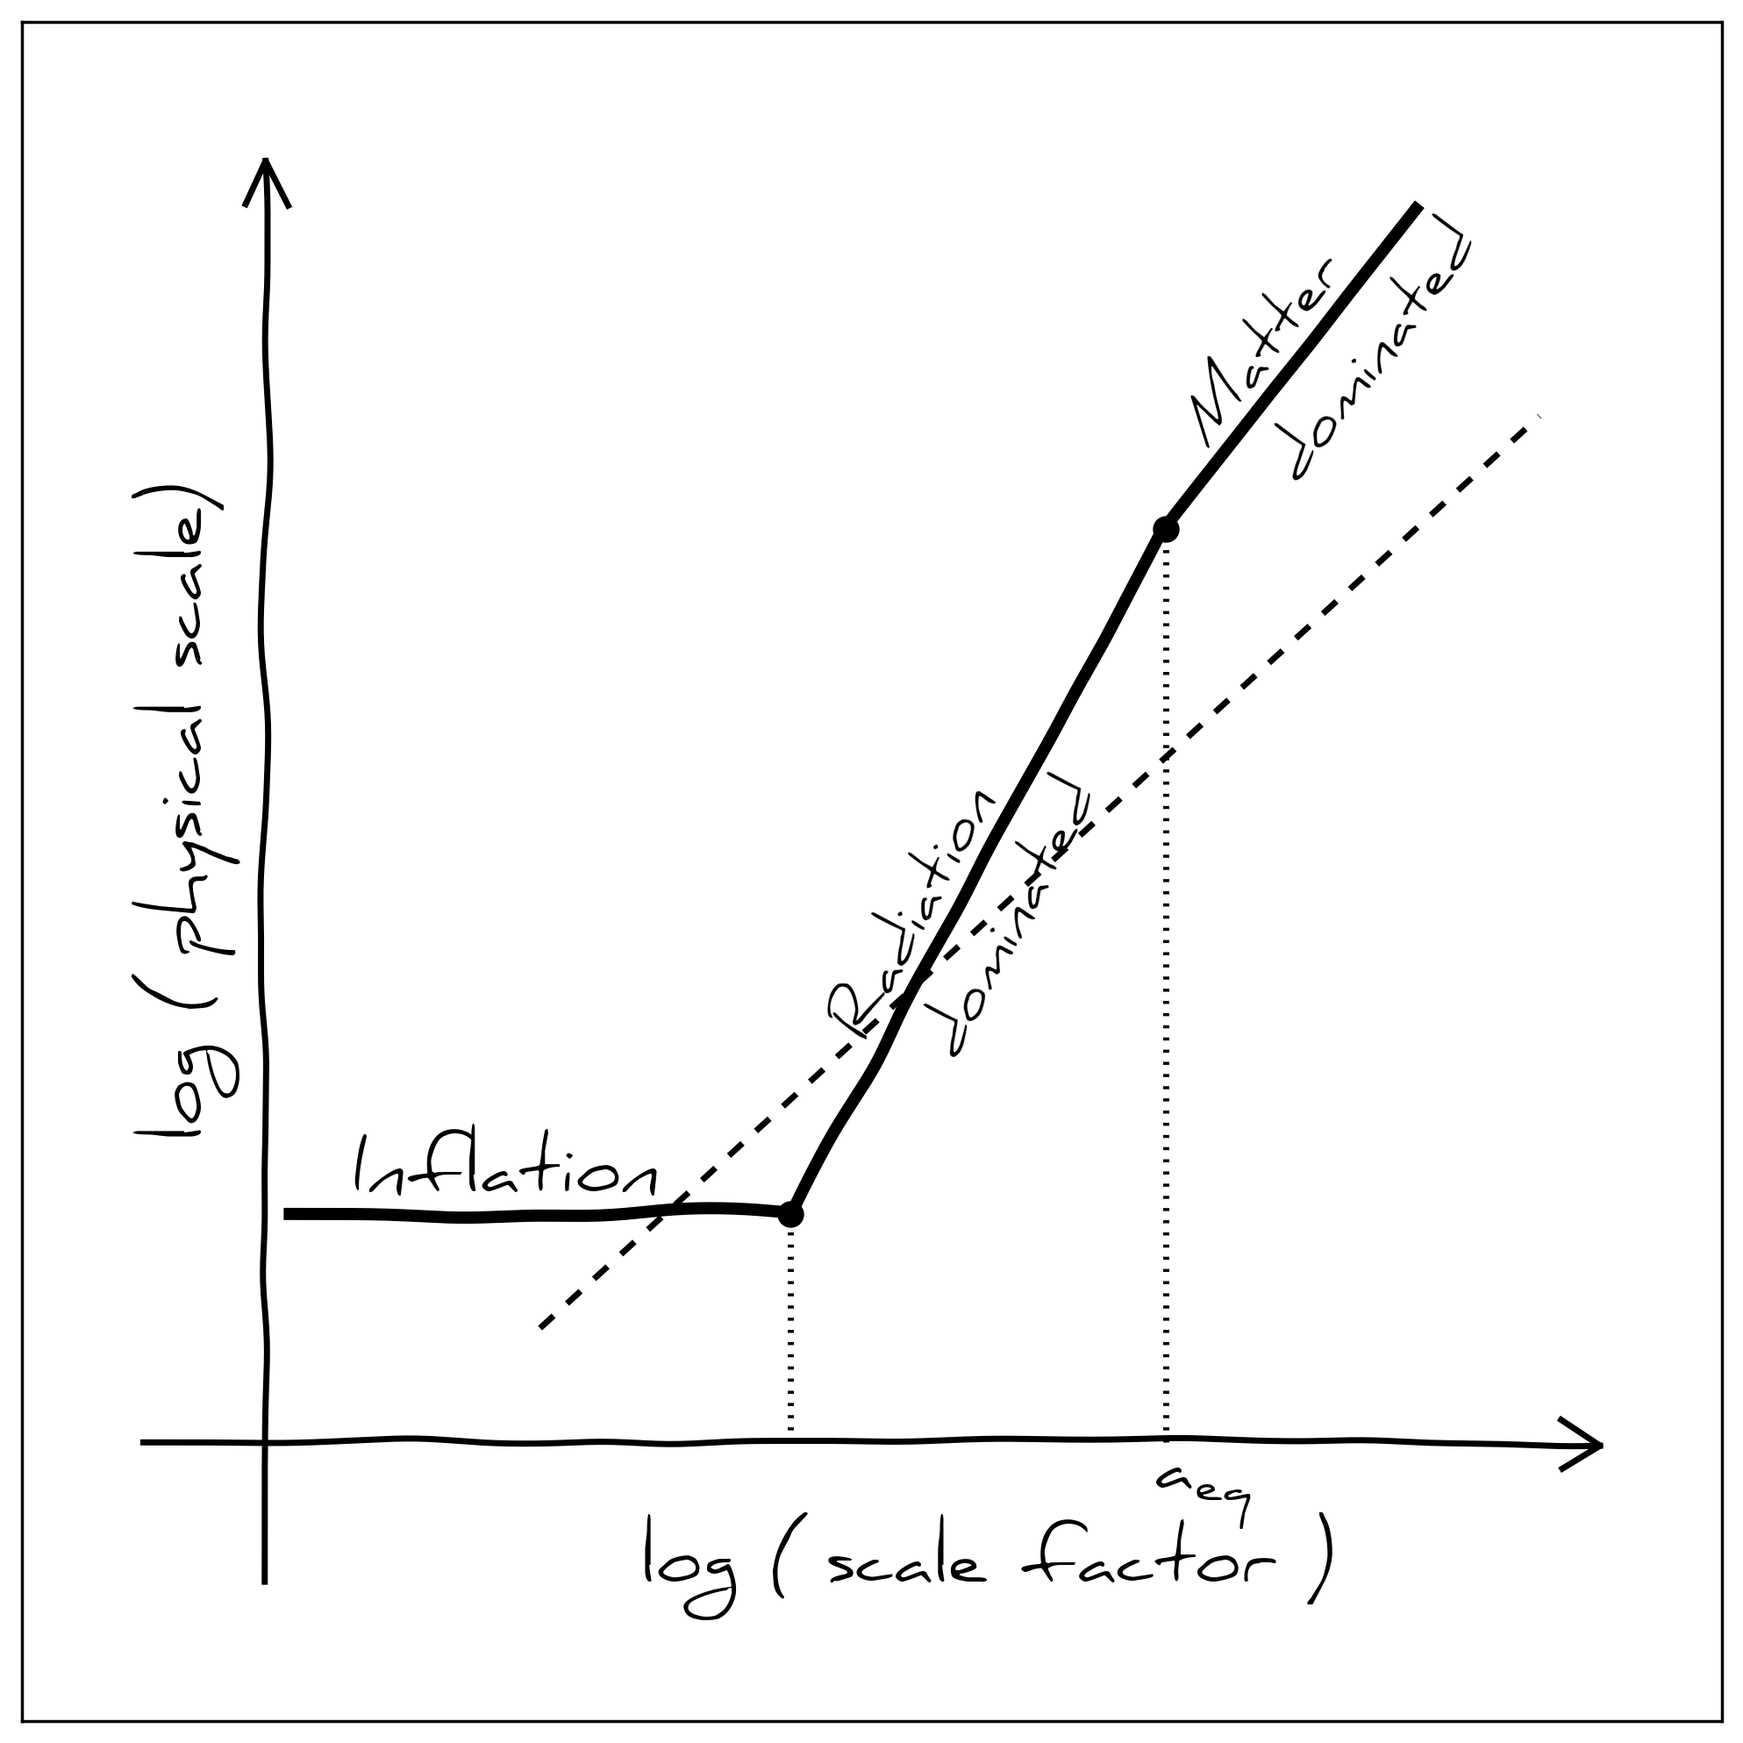
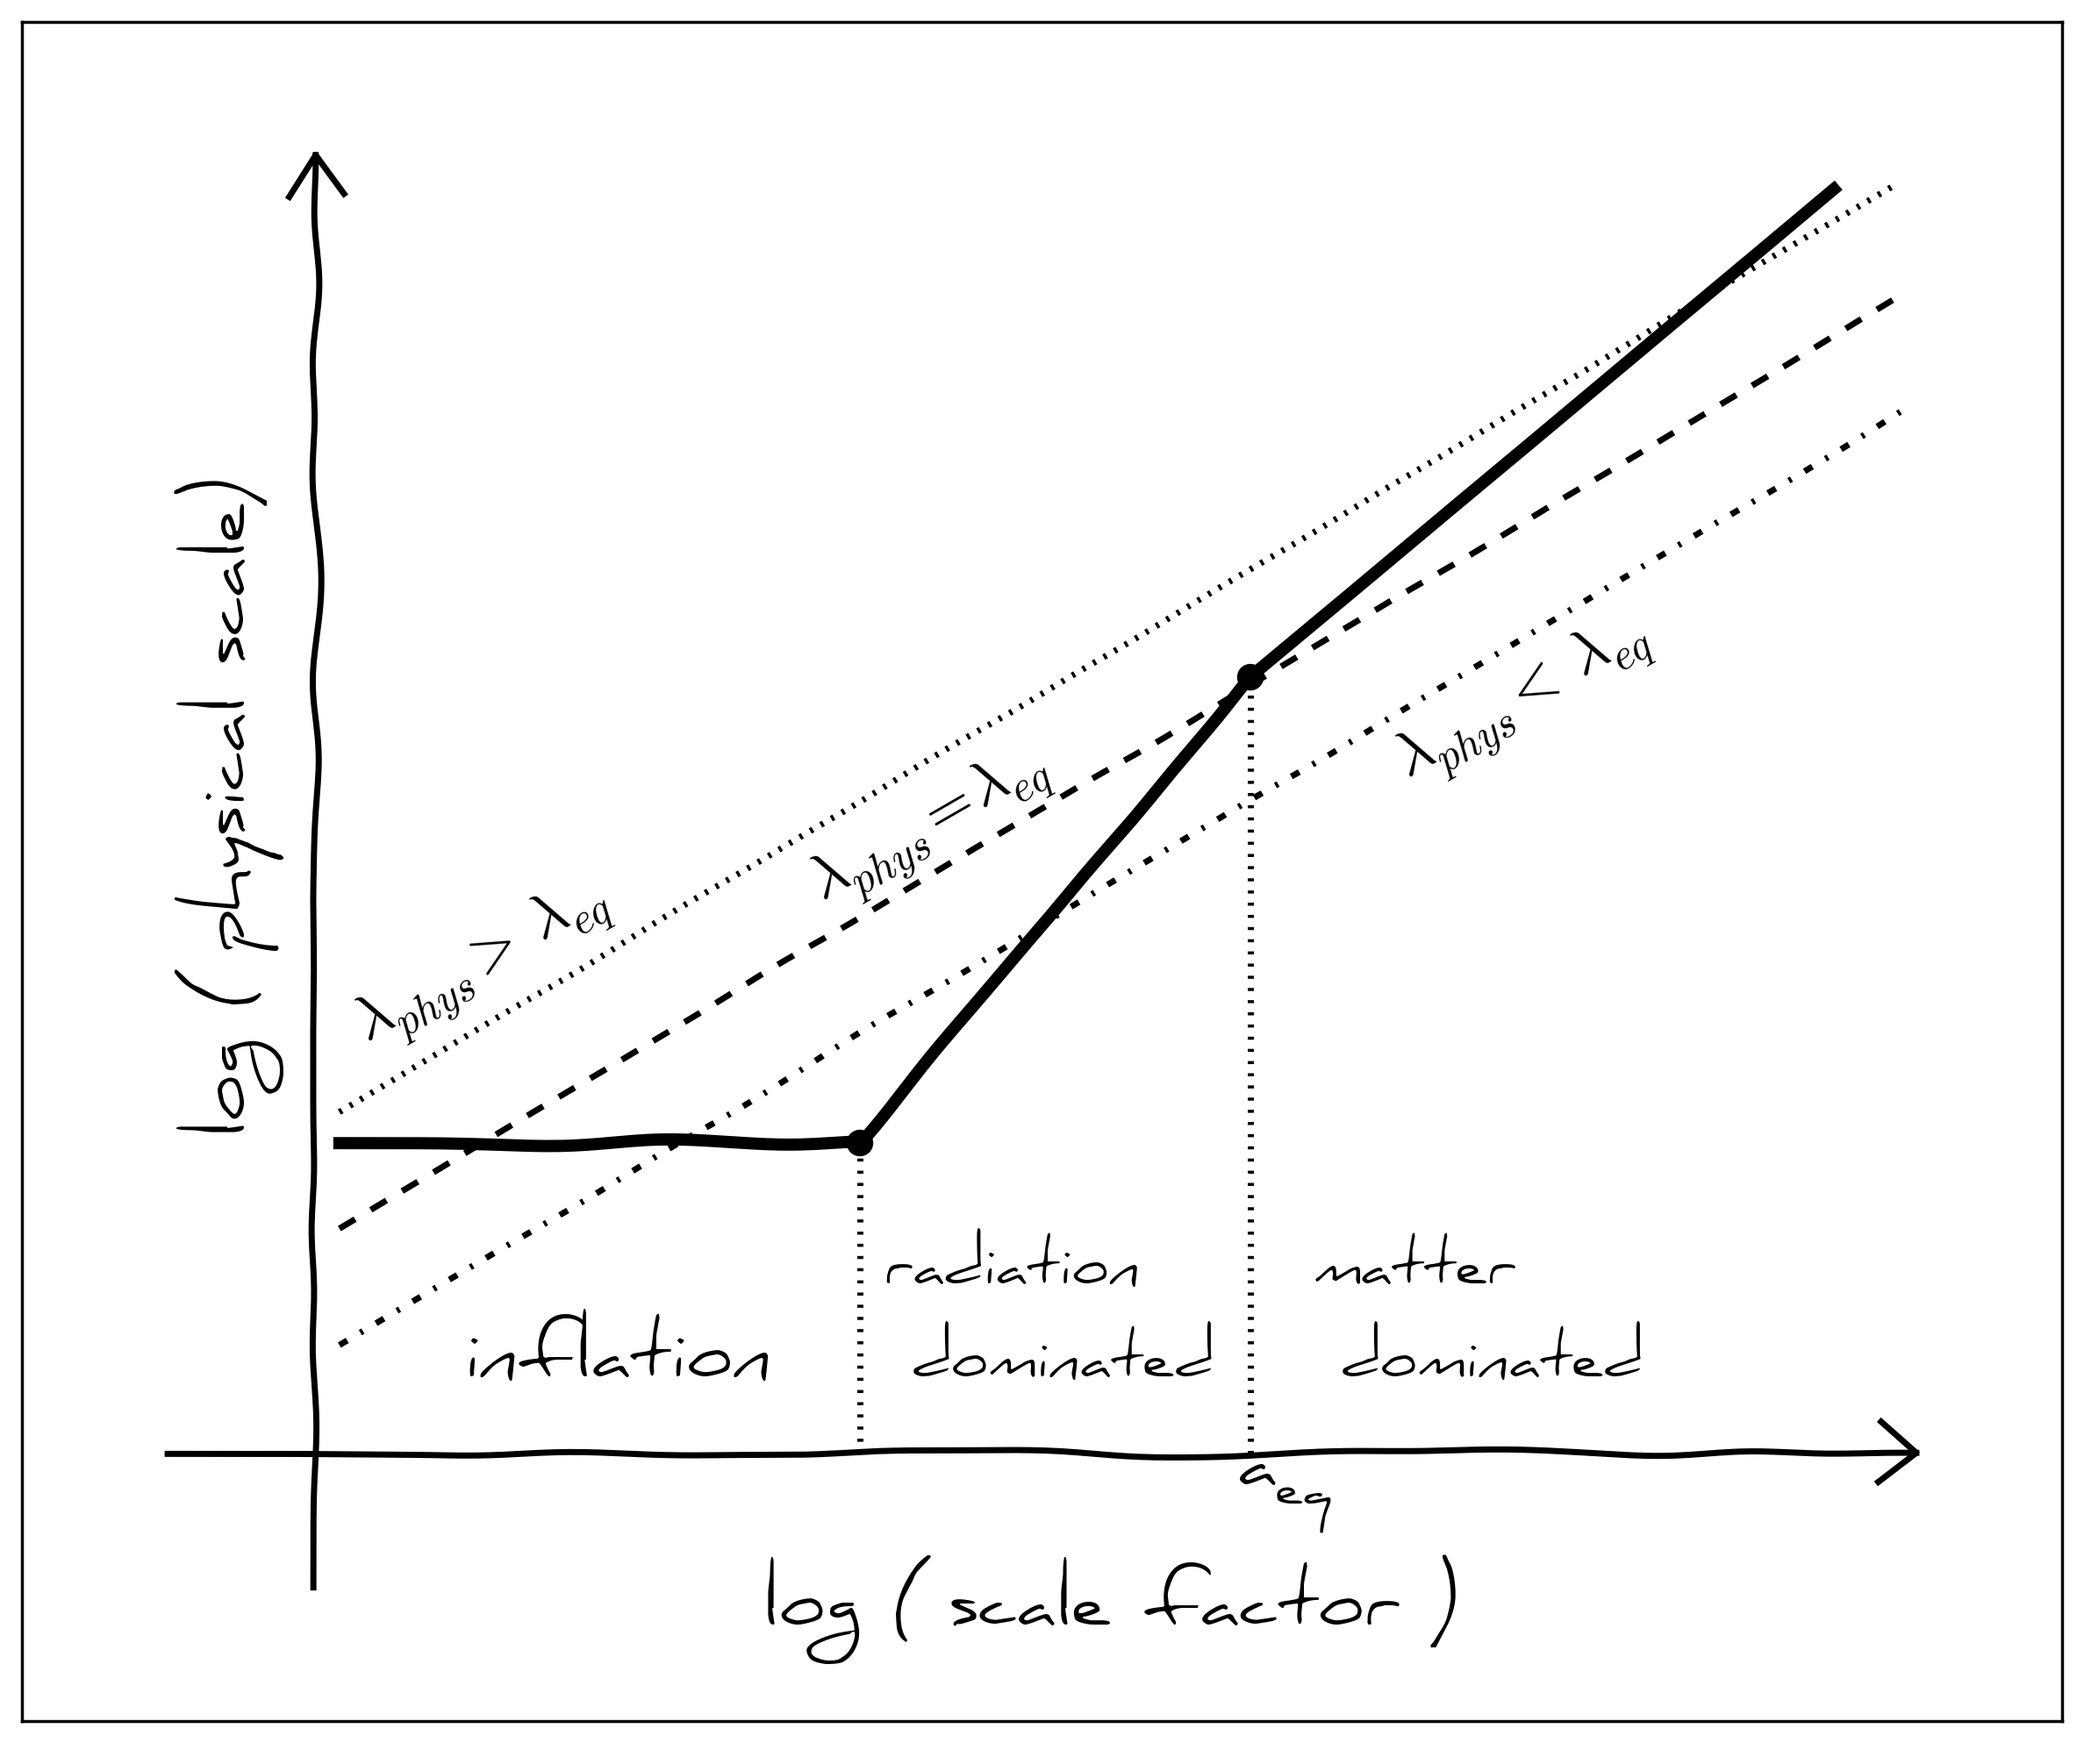
lifo figure face lift

diff --git a/intro.tex b/intro.tex
@@ -160,14 +160,23 @@ evolution of the density fluctuation is quantified through the
 \begin{figure*}
 \begin{center}
 \includegraphics[width=\textwidth]{figs/lifo.png}
-\caption{\todo{Schematic diagram that illustrates the evolution of the Hubble radius
-(Above) The evolution of the Hubble radius (solid line) during inflation (flat), radiation
-domination, and matter domination (note inflection). Dashed, dotted, and dot-dashed
-lines show the physical length of three constant comoving scales. The scale corresponding
-to the current Hubble radius cH−1
-0 first “left the horizon” about 60 e-folds before the end
-of inflation (open circle).}
-} \label{fig:lifo}
+\caption{Schematic diagram that illustrates the evolution of the density 
+fluctuations in the early Universe through inflation, radiation-dominated epoch, 
+matter-radiation equality, and matter-dominated epoch. The evolution of the 
+Hubble radius (solid line) remains flat during inflation (flat), scales by 
+$\propto a^2$ during radiation domination, and $\propto a^{3/2}$ during matter
+domination. $a_{eq}$ marks matter radiation equality. The physical lengths of
+three constant comoving scales are marked by dashed, dotted, and dot-dashed
+lines. The dashed line represents physical lengths of perturbations 
+that enter the horizon during matter-radiation equality $\lambda_{phys}=\lambda_{eq}$. 
+The dot-dashed line mark perturbations that enter the horizon during radiation 
+domination with $\lambda_{phys} < \lambda_{eq}$.  The dotted line mark 
+perturbations that enter the horizon during matter domination with 
+$\lambda_{phys} > \lambda_{eq}$. As described in the text, the growth of perturbations 
+with $\lambda_{phys} < \lambda_{eq}$ are suppressed because they enter the 
+horizon during the radiation dominated era. The evolution of the density 
+perturbation through these epochs are quantified through the transfer function $T(k)$.} 
+\label{fig:lifo}
 \end{center}
 \end{figure*}
 
